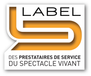
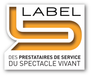
fix(sig): parité PNG assets pour éliminer étirement sub-pixel
- logo-tdn.png 320x157 -> 320x158 (display 160x79 exact)
- logo-ps.png  420x313 -> 420x314 (display 210x157 exact)
- label-event.png 91x76 -> 92x76 (display 46x38 exact)
- logo-synpase.png 231x76 -> 232x76 (display 116x38 exact)

Un PNG width ou height impair force le HTML à sortir des dims fractionnaires
(ex: width="115.5") ou à arrondir de +/-0.5 px, ce qui produit un etirement
visible sur les logos texte fins (TDN observe par Sonia).

Ajoute au build.js :
- svgToPng() pad +1 px bottom si content height impair (evite recreation du bug
  au prochain rebuild depuis les sources SVG)
- patchAssetsParity() repare les PNG en place sans avoir besoin des sources
- mode HTML_ONLY=1 FIX_PARITY=1 : regenere les HTML + patch parity sans les
  sources originales (utile quand SRC_DIR ~/Desktop/sign/ est indisponible)

diff --git a/build.js b/build.js
@@ -119,19 +119,29 @@ async function buildPhotos() {
 async function svgToPng(srcFile, dstFile, displayWidth) {
   const PAD = 14; // px de padding @1x sur chaque côté
   const innerWidth = Math.max(1, (displayWidth - PAD * 2) * 2);
-  const out = await sharp(path.join(SRC_DIR, srcFile), { density: 600 })
+  const srcPath = path.join(SRC_DIR, srcFile);
+
+  // Mesure de la hauteur intermédiaire pour verrouiller un PNG pair.
+  // Sinon out.height impair → display height = round(h/2) → écart sub-pixel
+  // → étirement visible sur logos texte fins (TDN 320x157 → 160x79 étire 0.6%).
+  const meta = await sharp(srcPath, { density: 600 })
+    .resize({ width: innerWidth })
+    .metadata();
+  const heightFix = meta.height % 2 === 1 ? 1 : 0;
+
+  const out = await sharp(srcPath, { density: 600 })
     .resize({ width: innerWidth })
     .flatten({ background: { r: 255, g: 255, b: 255 } })
     .extend({
       top: PAD * 2,
-      bottom: PAD * 2,
+      bottom: PAD * 2 + heightFix,
       left: PAD * 2,
       right: PAD * 2,
       background: { r: 255, g: 255, b: 255, alpha: 1 },
     })
     .png({ compressionLevel: 9 })
     .toFile(path.join(ASSETS_DIR, dstFile));
-  return { width: Math.round(out.width / 2), height: Math.round(out.height / 2) };
+  return { width: out.width / 2, height: out.height / 2 };
 }
 
 async function buildLogos() {
@@ -351,21 +361,98 @@ document.querySelectorAll('button[data-id]').forEach(btn => {
 }
 
 // =========================================================================
+// PATCH & READ existing PNGs (mode HTML_ONLY)
+// =========================================================================
+
+// Ajoute 1 px transparent/blanc (right / bottom) aux PNG dont largeur ou
+// hauteur est impaire. Garantit un display size entier (PNG/2) donc plus de
+// width="115.5" en HTML (invalide, arrondi par le client mail → étirement).
+// Utile quand SRC_DIR est indisponible : on répare les PNG en place.
+async function patchAssetsParity() {
+  // Logos : padding blanc opaque (fond blanc déjà cuit dans le PNG).
+  // Badges : padding transparent (badge ecovadis + logo-synpase = fond alpha).
+  const targets = [
+    { file: 'logo-tdn.png',      bg: { r: 255, g: 255, b: 255, alpha: 1 } },
+    { file: 'logo-kp.png',       bg: { r: 255, g: 255, b: 255, alpha: 1 } },
+    { file: 'logo-ps.png',       bg: { r: 255, g: 255, b: 255, alpha: 1 } },
+    { file: 'cert-ecovadis.png', bg: { r: 255, g: 255, b: 255, alpha: 0 } },
+    { file: 'label-event.png',   bg: { r: 255, g: 255, b: 255, alpha: 1 } },
+    { file: 'logo-synpase.png',  bg: { r: 255, g: 255, b: 255, alpha: 0 } }
+  ];
+  for (const { file, bg } of targets) {
+    const p = path.join(ASSETS_DIR, file);
+    if (!fs.existsSync(p)) continue;
+    const meta = await sharp(p).metadata();
+    const wFix = meta.width  % 2 === 1 ? 1 : 0;
+    const hFix = meta.height % 2 === 1 ? 1 : 0;
+    if (!wFix && !hFix) {
+      console.log(`  ${file}: ${meta.width}x${meta.height} déjà pair`);
+      continue;
+    }
+    const buf = await sharp(p)
+      .extend({ right: wFix, bottom: hFix, background: bg })
+      .png({ compressionLevel: 9 })
+      .toBuffer();
+    fs.writeFileSync(p, buf);
+    console.log(`  ${file}: ${meta.width}x${meta.height} -> ${meta.width + wFix}x${meta.height + hFix}`);
+  }
+}
+
+async function readAssetDims() {
+  const read = async (n) => {
+    const m = await sharp(path.join(ASSETS_DIR, n)).metadata();
+    return { width: m.width / 2, height: m.height / 2 };
+  };
+  const logoDims = {
+    kp: await read('logo-kp.png'),
+    tdn: await read('logo-tdn.png'),
+    ps: await read('logo-ps.png')
+  };
+  const eco = await read('cert-ecovadis.png');
+  const lab = await read('label-event.png');
+  const syn = await read('logo-synpase.png');
+  const badges = {
+    ecovadis: { w: eco.width, h: eco.height },
+    label:    { w: lab.width, h: lab.height },
+    synpase:  { w: syn.width, h: syn.height }
+  };
+  return { logoDims, badges };
+}
+
+// =========================================================================
 // MAIN
 // =========================================================================
 
 (async () => {
+  const HTML_ONLY = process.env.HTML_ONLY === '1';
+  const FIX_PARITY = process.env.FIX_PARITY === '1';
+
   console.log('1. Préparation des dossiers');
   ensureDirs();
 
-  console.log('2. Photos (10) — crop carré 192x192 + grayscale');
-  await buildPhotos();
+  let logoDims, badges;
 
-  console.log('3. Logos marques');
-  const logoDims = await buildLogos();
+  if (HTML_ONLY) {
+    if (FIX_PARITY) {
+      console.log('1b. Patch parité assets (add 1px right/bottom si dim impaire)');
+      await patchAssetsParity();
+    }
+    console.log('2-4. HTML_ONLY=1 -> lecture des dimensions depuis PNG existants');
+    const dims = await readAssetDims();
+    logoDims = dims.logoDims;
+    badges = dims.badges;
+    console.log('  logoDims:', logoDims);
+    console.log('  badges:', badges);
+  } else {
+    console.log('2. Photos (10) — crop carré 192x192 + grayscale');
+    await buildPhotos();
 
-  console.log('4. Badges (EcoVadis + Label + Synpase)');
-  const badges = await buildBadges();
+    console.log('3. Logos marques');
+    logoDims = await buildLogos();
+
+    console.log('4. Badges (EcoVadis + Label + Synpase)');
+    badges = await buildBadges();
+  }
 
   console.log('5. Génération des 11 signatures HTML');
   const dimsByBrand = { KP: logoDims.kp, TDN: logoDims.tdn, PS: logoDims.ps };
